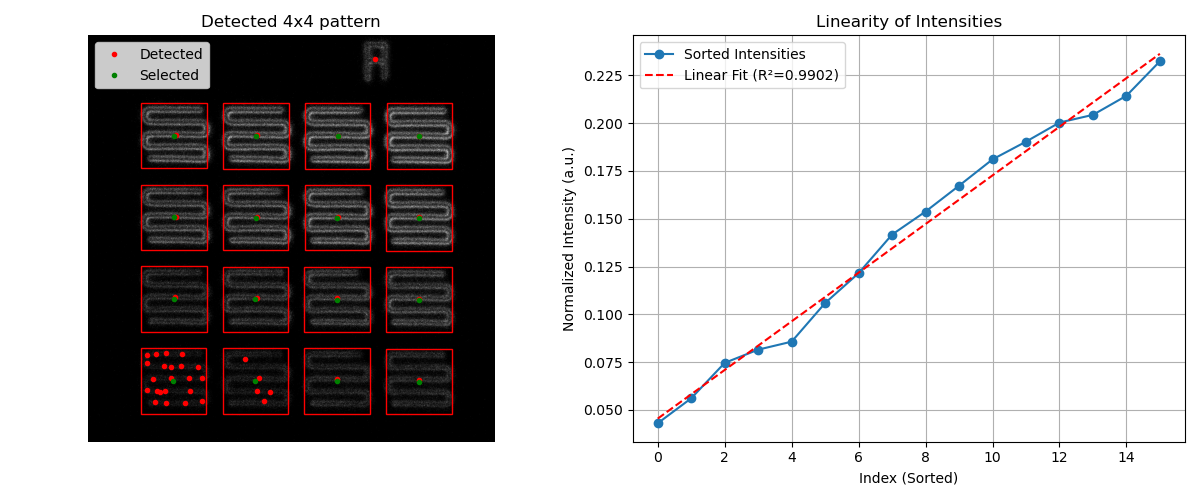
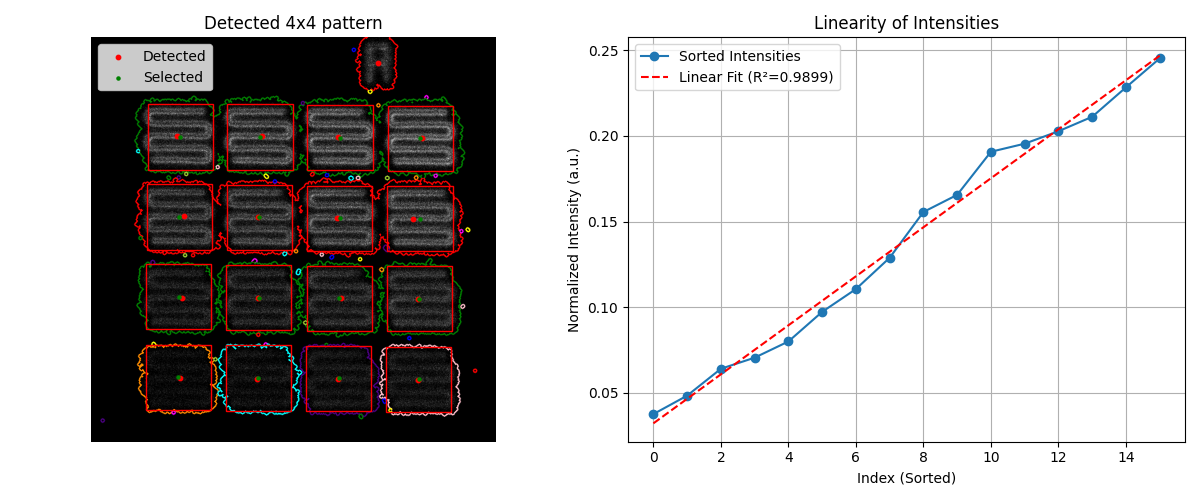
more robust 2d rings detection + figure correction for coregistration
more robust 2d rings detection + figure correction for coregistration

diff --git a/src/METEOR_core/coregistration_analysis.py b/src/METEOR_core/coregistration_analysis.py
@@ -31,7 +31,13 @@ from .functions import (
 )
 
 
-def get_coregistration(img, pxl_size_xy, spacing=4.9, grid_size=21):
+def get_coregistration(
+    img: np.ndarray,
+    pxl_size_xy: float,
+    spacing: float = 4.9,
+    grid_size: int = 21,
+    debug: bool = False,
+) -> dict[str, Any]:
     blue = img[0]
     red = img[1]
     # median filter first
@@ -50,7 +56,9 @@ def get_coregistration(img, pxl_size_xy, spacing=4.9, grid_size=21):
     red_c = red[top[0] : bottom[0], top[1] : bottom[1]]
 
     # get blue points
-    blue_points = get_centroid(blue_c, grid_size * grid_size)
+    blue_points = get_centroid(
+        blue_c, grid_size * grid_size, thr="triangle", verbose=debug
+    )
     if blue_points is None:
         raise ValueError("Failed to detect sufficient blue channel points")
     blue_points_result = lattice_fitting(
@@ -68,7 +76,9 @@ def get_coregistration(img, pxl_size_xy, spacing=4.9, grid_size=21):
     )
 
     # get red points
-    red_points = get_centroid(red_c, grid_size * grid_size)
+    red_points = get_centroid(
+        red_c, grid_size * grid_size, thr="triangle", verbose=debug
+    )
     if red_points is None:
         raise ValueError("Failed to detect sufficient red channel points")
     red_points_result = lattice_fitting(
@@ -86,7 +96,7 @@ def get_coregistration(img, pxl_size_xy, spacing=4.9, grid_size=21):
     )
 
     return {
-        "max_amplitude": np.max(np.linalg.norm(blue_points - red_points, axis=1)),
+        "max_amplitude": np.max(np.linalg.norm(blue_points - red_points, axis=1)),  # type: ignore
         "red_c": red_c,
         "blue_c": blue_c,
         "blue_points": blue_points,
@@ -95,13 +105,13 @@ def get_coregistration(img, pxl_size_xy, spacing=4.9, grid_size=21):
 
 
 def coregistration_analysis(
-    img_array,
-    metadata,
+    img_array: np.ndarray,
+    metadata: dict[str, Any],
     grid_size: int = 21,
     spacing: float = 5.1,
     visu: bool = True,
     debug: bool = False,
-    dim="CZYX",
+    dim: str = "CZYX",
 ) -> dict[str, Any]:
     """
     Compute lateral co-registration accuracy between two channels via a 2d rings target.
@@ -156,7 +166,11 @@ def coregistration_analysis(
     for plane in range(img_array.shape[1]):
         try:
             result = get_coregistration(
-                img_array[:, plane], pxl_size_xy, spacing=spacing, grid_size=grid_size
+                img_array[:, plane],
+                pxl_size_xy,
+                spacing=spacing,
+                grid_size=grid_size,
+                debug=debug,
             )
         except (ValueError, IndexError):
             result = None
@@ -216,20 +230,14 @@ def coregistration_analysis(
     # make the figure
     fig = None
     if visu:
-        X = blue_points[:, 0][sort_indices].reshape(grid_size, grid_size)
-        Y = blue_points[:, 1][sort_indices].reshape(grid_size, grid_size)
         fig, (ax1, ax2) = plt.subplots(1, 2, figsize=(11, 5))  # type: ignore
-
+        rgb = np.stack([red_c, blue_c, np.zeros(red_c.shape)], axis=-1)
+        X = blue_points[:, 1][sort_indices].reshape(grid_size, grid_size)
+        Y = blue_points[:, 0][sort_indices].reshape(grid_size, grid_size)
         ax1.imshow(
-            np.stack(
-                [
-                    red_c,
-                    blue_c,
-                    np.zeros(red_c.shape),
-                ],
-                axis=-1,
-            ),
+            rgb[::-1, ::-1, :],
             origin="lower",
+            extent=[X.min(), X.max(), Y.min(), Y.max()],
         )
         # ax1.legend()
         ax1.set_title("Centered image and points detection")
@@ -237,10 +245,13 @@ def coregistration_analysis(
 
         final_image = magnitude[sort_indices].reshape(grid_size, grid_size)
         level = 3
+
+        Z = filters.gaussian(final_image, 0.8)
+
         CS = ax2.contour(
-            blue_points[:, 1].reshape(grid_size, grid_size),
-            blue_points[:, 0].reshape(grid_size, grid_size),
-            filters.gaussian(final_image, 0.8),
+            X,
+            Y,
+            Z,
             levels=level,
             linewidths=range(level),
             colors="black",
@@ -254,9 +265,7 @@ def coregistration_analysis(
             alpha=0.7,
             vmin=0,
             vmax=10,
-            origin="lower",
         )
-
         # prepare for the vector visualization
         dx = (X.max() - X.min()) / (grid_size - 1)  # 21 points, 20 intervals
         dy = (Y.max() - Y.min()) / (grid_size - 1)
@@ -267,8 +276,8 @@ def coregistration_analysis(
         ax2.quiver(
             X_centered,
             Y_centered,
-            deformation_vectors[:, 0][sort_indices].reshape(grid_size, grid_size),
             deformation_vectors[:, 1][sort_indices].reshape(grid_size, grid_size),
+            deformation_vectors[:, 0][sort_indices].reshape(grid_size, grid_size),
             color="black",
             angles="xy",
             scale_units="xy",
@@ -279,6 +288,7 @@ def coregistration_analysis(
 
         ax2.set_title("Lateral co-registration accuracy")
         ax2.axis("off")
+
         plt.colorbar(im, label="Co-registration Magnitude (pixel)")
 
         fig.subplots_adjust(

diff --git a/example/debug.py b/example/debug.py
@@ -1,20 +1,16 @@
+import os
 import pprint
 
 from matplotlib import pyplot as plt
+from METEOR_core.coregistration_analysis import coregistration_analysis as ca
+from METEOR_core.functions import reader
 from METEOR_core.intensity_analysis import intensity_analysis as ia
 from METEOR_core.logger import setup_logger
 
 
-def debug_intensity_analysis(img, metadata):
-    res = ia(img, metadata, debug=False)
-    return res
-
-
-if __name__ == "__main__":
-    from METEOR_core.functions import reader
-
-    setup_logger()
-
+def debug_intensity(idx):
+    path = "upload/intensity/"
+    filenames = os.listdir(path)
     filenames = [
         "LSM880_20x_intensity.czi",
         "LSM700_40xO_intensity.czi",
@@ -24,9 +20,28 @@ if __name__ == "__main__":
         "Argo 20x intensity.czi",
     ]
 
-    img, metadata = reader("upload/intensity/" + filenames[5])
+    img, metadata = reader(path + filenames[idx])
 
-    res = debug_intensity_analysis(img, metadata)
+    res = ia(img, metadata, debug=False)
     print("_____________________")
     pprint.pprint(res)
     plt.show()
+
+
+def debug_coregistration(idx):
+    path = "upload/2drings/"
+    filenames = os.listdir(path)
+
+    img, metadata = reader(path + filenames[idx])
+
+    res = ca(img, metadata, debug=True)
+    print("_____________________")
+    pprint.pprint(res)
+    plt.show()
+
+
+if __name__ == "__main__":
+    setup_logger()
+
+    # debug_intensity(4)
+    debug_coregistration(7)

diff --git a/src/METEOR_core/functions.py b/src/METEOR_core/functions.py
@@ -863,6 +863,8 @@ def get_centroid(
     nb_points: int,
     min_size: int = 20,
     tolerance: float = 0.05,
+    thr: str = "triangle",
+    verbose: bool = False,
 ):
     """
     Detect blob centroids in an image.
@@ -886,7 +888,7 @@ def get_centroid(
         Detected centroids as (x, y). Returns None only if
         the number of detected blobs is *far* from nb_points.
     """
-    labels = get_label(img)
+    labels = get_label(img, thr=thr, debug=verbose)
 
     # Measure regions and filter by area
     regions = measure.regionprops(labels)
